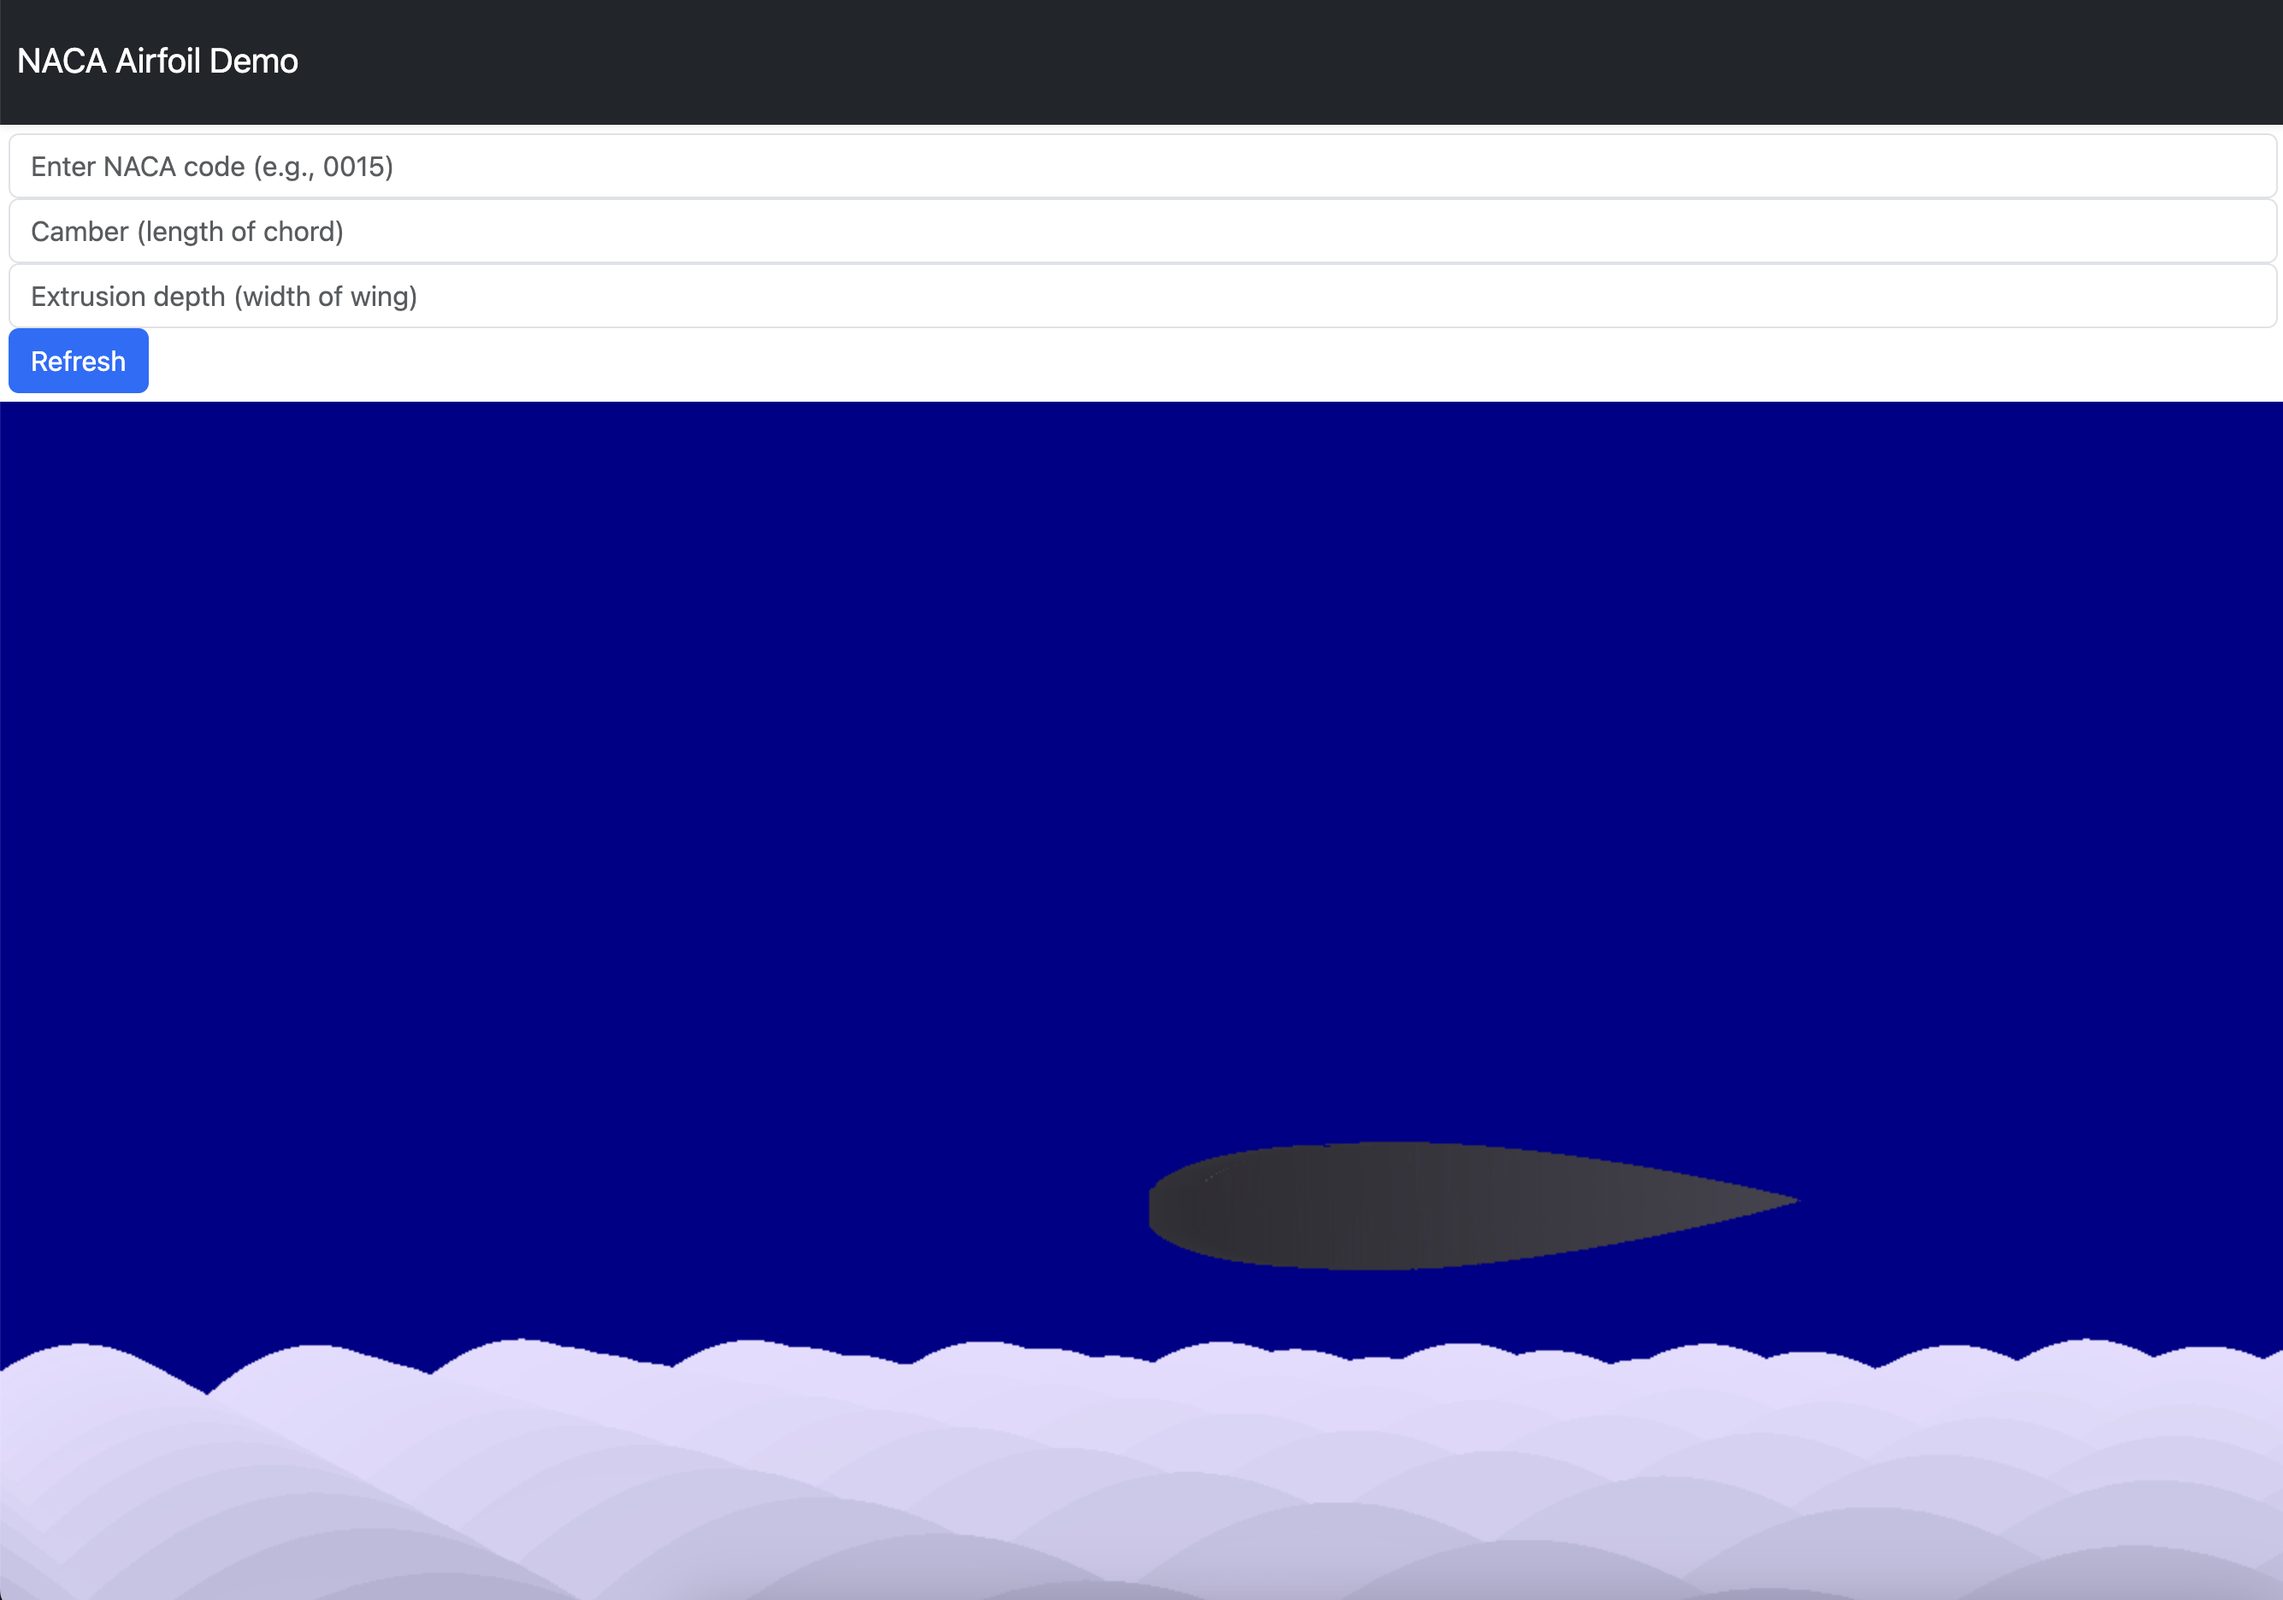
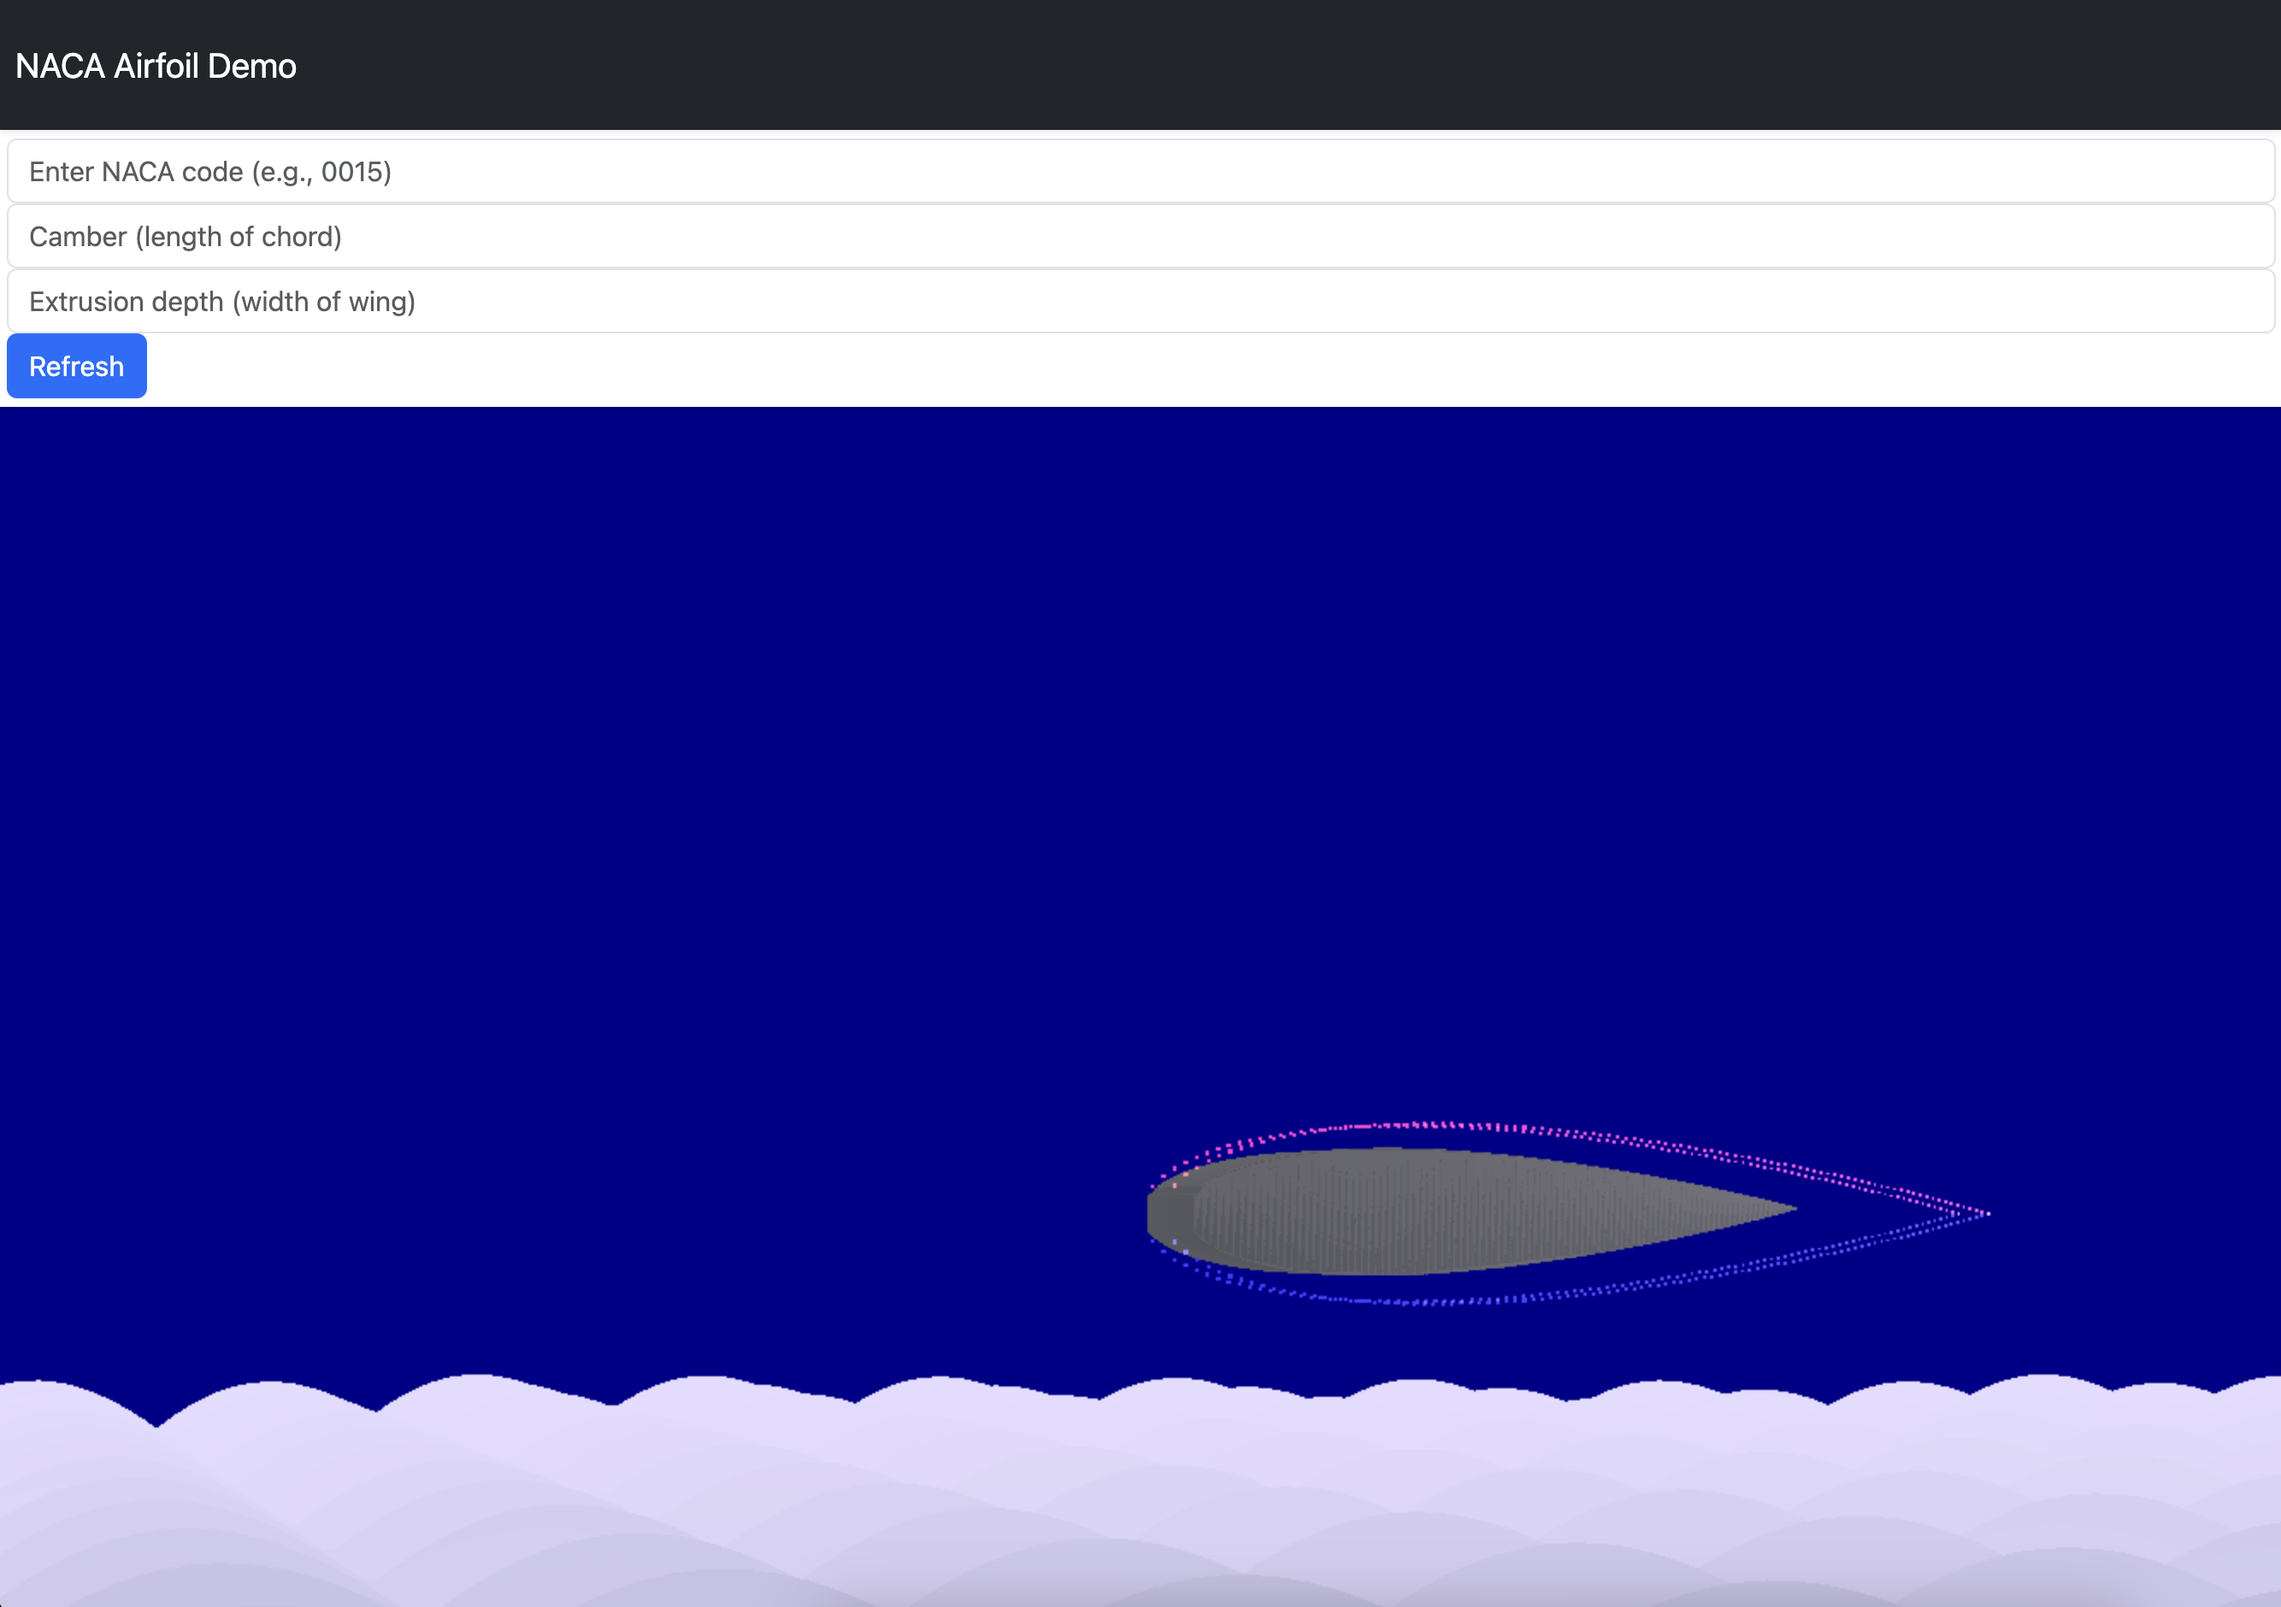
update

diff --git a/src/scene.ts b/src/scene.ts
@@ -1,7 +1,7 @@
 import { Vector2NacaFoil } from './vector';
 import * as THREE from 'three';
 import { NacaCode } from './types';
-import { FlyControls } from 'three/examples/jsm/controls/FlyControls'
+import { OrbitControls } from 'three/addons/controls/OrbitControls.js';
 
 // Create Three.js scene
 export class NacaFoilScene {
@@ -9,7 +9,7 @@ export class NacaFoilScene {
     scene: THREE.Scene;
     renderer: THREE.WebGLRenderer;
     clock: THREE.Clock = new THREE.Clock();
-    controls: FlyControls;
+    controls: OrbitControls;
 
     constructor(id: string='naca-foil') {
         this.scene = new THREE.Scene();
@@ -25,11 +25,7 @@ export class NacaFoilScene {
         this.scene.background = new THREE.Color("darkblue");
         this.scene.fog = new THREE.FogExp2(0xe4dcff, 0.0025);
         // 2. Initiate FlyControls with various params
-        this.controls = new FlyControls( this.camera, this.renderer.domElement );
-        this.controls.movementSpeed = 100;
-        this.controls.rollSpeed = Math.PI / 24;
-        this.controls.autoForward = false;
-        this.controls.dragToLook = true;
+        this.controls = new OrbitControls( this.camera, this.renderer.domElement );
     }
 
     _clear() {
@@ -49,8 +45,8 @@ export class NacaFoilScene {
             256 - 1,
             256 - 1
           );
-          pg.rotateX(-Math.PI / 2);
 
+        /*
         const fogMesh = new THREE.Mesh(
             pg,
             new THREE.MeshBasicMaterial({ color: new THREE.Color(0xefd1b5) })
@@ -86,6 +82,7 @@ export class NacaFoilScene {
         };
 
         scene.add(fogMesh);
+        */
 
         const foil = new Vector2NacaFoil(camber, naca_code);
         const shape = new THREE.Shape(foil.getVectors());
@@ -97,21 +94,25 @@ export class NacaFoilScene {
             color: 0xFFFFFF, 
             wireframe: false, 
             side: THREE.DoubleSide,
-            roughness: 0.1,
-            metalness: 1
+            roughness: 0.01,
+            metalness: 0.9
         });
         const mesh = new THREE.Mesh(geometry, material);
 
         mesh.rotation.x = THREE.MathUtils.degToRad(90);
         mesh.rotation.z = THREE.MathUtils.degToRad(-30);
 
-
         scene.add(mesh);
+        const g1 = this.addGlow(foil, true);
+        const g2 = this.addGlow(foil, false);
+        scene.add(g1);
+        scene.add(g2);
+
 
         // Plane geometry
 
         const width = 1024;
-        const height = 70; // Example height value
+        const height = 60; // Example height value
 
         const numSegments = width - 1; // We have one less vertex than pixel
 
@@ -135,7 +136,7 @@ export class NacaFoilScene {
 
         const positionAttribute = plane.geometry.attributes.position;
         for (let i = 0; i < positionAttribute.count; i++) {
-            const z = height * (Math.sin(i * 0.1) + Math.cos(i * 0.05) + cnoise(new THREE.Vector3(i * 0.1, 0, Date.now() * 0.0001)));
+            const z = height * (Math.sin(i * 0.1) + Math.cos(i * 0.05) + this.cnoise(new THREE.Vector3(i * 0.1, 0, Date.now() * 0.0001)));
             positionAttribute.setZ(i, z);
         }
         positionAttribute.needsUpdate = true;
@@ -168,7 +169,6 @@ export class NacaFoilScene {
         spotLight.castShadow = true;
         scene.add(spotLight);
 
-
         const al1 = new THREE.AmbientLight(0xFFFFFF, 0.4); // Soft ambient light
         scene.add(al1);
 
@@ -186,8 +186,6 @@ export class NacaFoilScene {
         pl2.position.set(250, 350, 300);
         scene.add(pl2);
 
-
-
         const animate = () => {
             requestAnimationFrame(animate);
 
@@ -198,7 +196,8 @@ export class NacaFoilScene {
             const randomFactor = Math.random() * 0.1;
             const dir = Math.sin(Date.now() / 3000) >= 0 ? 1 : -1;
 
-            mesh.rotation.y += sinDelta * randomFactor * dir/ 100;
+            mesh.position.y += sinDelta * randomFactor * dir / 10;
+            mesh.rotation.y += sinDelta * randomFactor * dir / 50;
             mesh.rotation.x += sinDelta * randomFactor * dir / 100;
 
             plane.position.x += 0.015;
@@ -208,11 +207,59 @@ export class NacaFoilScene {
         };
         animate();
     }
+
+    addGlow( foil: Vector2NacaFoil, upper: boolean = true) {
+        // Create a glow effect around the mesh using Points and a PointsMaterial
+        let glowShape = new THREE.Shape();
+        let color = 0x000000;
+        if(upper) {
+            glowShape = new THREE.Shape(foil.getUpperVectors(1.5));
+            color = 0xff0000;
+        } else {
+            glowShape = new THREE.Shape(foil.getLowerVectors(1.5));
+            color = 0x0000ff;
+        }
+        
+        const glowGeometry = new THREE.ExtrudeGeometry(glowShape, { depth: 5, bevelEnabled: false });
+        const glowMaterial = new THREE.PointsMaterial({
+            color: new THREE.Color(color), // Bright glow color in hexadecimal
+            transparent: true,
+            opacity: 0.4,
+            blending: THREE.AdditiveBlending, // Additive blending for glow effect
+            depthWrite: false
+        });
+        const colors = new Float32Array(glowGeometry.attributes.position.count * 3);
+        for (let i = 0; i < colors.length; i += 3) {
+            if(upper) {
+                colors[i] = 1.0; // Red
+                colors[i + 1] = 0.0; // Green
+                colors[i + 2] = 0.3; // Blue
+            } else {    
+                colors[i] = 0.3; // Red
+                colors[i + 1] = 0.0; // Green
+                colors[i + 2] = 1.0; // Blue
+            }
+        }
+        glowGeometry.setAttribute('color', new THREE.BufferAttribute(colors, 3));
+        glowMaterial.vertexColors = true;
+        glowMaterial.needsUpdate = true;
+    
+        const glow = new THREE.Points(glowGeometry, glowMaterial);
+
+        glow.rotation.x = THREE.MathUtils.degToRad(0);
+        glow.rotation.y = THREE.MathUtils.degToRad(30);
+
+        return glow;
+
+
+    }
+    
+    cnoise = (vector: THREE.Vector3) => {
+        return Math.random() * Math.sin(Date.now() * 0.001) * vector.x * vector.y;
+    }
 }
 
-const cnoise = (vector: THREE.Vector3) => {
-    return Math.random() * Math.sin(Date.now() * 0.001) * vector.x * vector.y;
-}
+
 
 const noise = `
 //	Classic Perlin 3D Noise 

diff --git a/src/core.ts b/src/core.ts
@@ -96,6 +96,9 @@ export class NacaFoilMath {
 
 export class NacaFoil {
     points: [number, number][] = [];
+    upper: [number, number][] = [];
+    lower: [number, number][] = [];
+    leadingEdge: [number, number][] = [];
 
     // Generate airfoil points
     _constructor(c: number = 100, naca_code: NacaCode = '0015', resolution: number = 100, convex_hull=true) {
@@ -109,14 +112,13 @@ export class NacaFoil {
 
         // Upper surface
         for (let i = 0; i <= c; i += res) {
-            this.points.push([NacaFoilMath.camberX(i+shift, c, t, m, p), NacaFoilMath.camberY(i, c, t, m, p)]);
+            this.upper.push([NacaFoilMath.camberX(i+shift, c, t, m, p), NacaFoilMath.camberY(i, c, t, m, p)]);
         }
         
         // Lower surface
         for (let i = c; i >= 0; i -= res) {
-            this.points.push([NacaFoilMath.camberX(i+shift, c, t, m, p, false), NacaFoilMath.camberY(i, c, t, m, p, false)]);
+            this.lower.push([NacaFoilMath.camberX(i+shift, c, t, m, p, false), NacaFoilMath.camberY(i, c, t, m, p, false)]);
         }
-
         
         // Ensure leading edge connection
         for(let i=-10; i<c; i+=res) {
@@ -126,14 +128,27 @@ export class NacaFoil {
             let leadingEdgeYLower = NacaFoilMath.camberY(0 + i, c, t, m, p, false);
 
             // Add both upper and lower leading edge points
-            this.points.push([leadingEdgeXUpper, leadingEdgeYUpper]);
-            this.points.push([leadingEdgeXLower, leadingEdgeYLower]);
+            this.leadingEdge.push([leadingEdgeXUpper, leadingEdgeYUpper]);
+            this.leadingEdge.push([leadingEdgeXLower, leadingEdgeYLower]);
         }
-        
+
+        this.points = this.upper.concat(this.lower).concat(this.leadingEdge);
 
         if(convex_hull) {
             this.points = NacaFoilMath.convexHull(this.points);
         }
+    }
+
+    getUpper(scale: number = 1) {
+        return this.upper.map((point) => [point[0] * scale, point[1] * scale]);
+    }
+
+    getLower(scale: number = 1) {
+        return this.lower.map((point) => [point[0] * scale, point[1] * scale]);
+    }
+
+    getLeadingEdge(scale: number = 1) {
+        return this.leadingEdge.map((point) => [point[0] * scale, point[1] * scale]);
     }
 
     getPoints() {

diff --git a/src/vector.ts b/src/vector.ts
@@ -13,4 +13,16 @@ export class Vector2NacaFoil extends NacaFoil {
     getVectors(): Array<Vector2> {
         return this.vectors;
     }
+
+    getUpperVectors(scale: number = 1): Array<Vector2> {
+        return this.getUpper(scale).map((point) => new Vector2(point[0], point[1]));
+    }
+
+    getLowerVectors(scale: number = 1): Array<Vector2> {
+        return this.getLower(scale).map((point) => new Vector2(point[0], point[1]));
+    }
+
+    getLeadingEdgeVectors(scale: number = 1): Array<Vector2> {
+        return this.getLeadingEdge(scale).map((point) => new Vector2(point[0], point[1]));
+    }
 }
